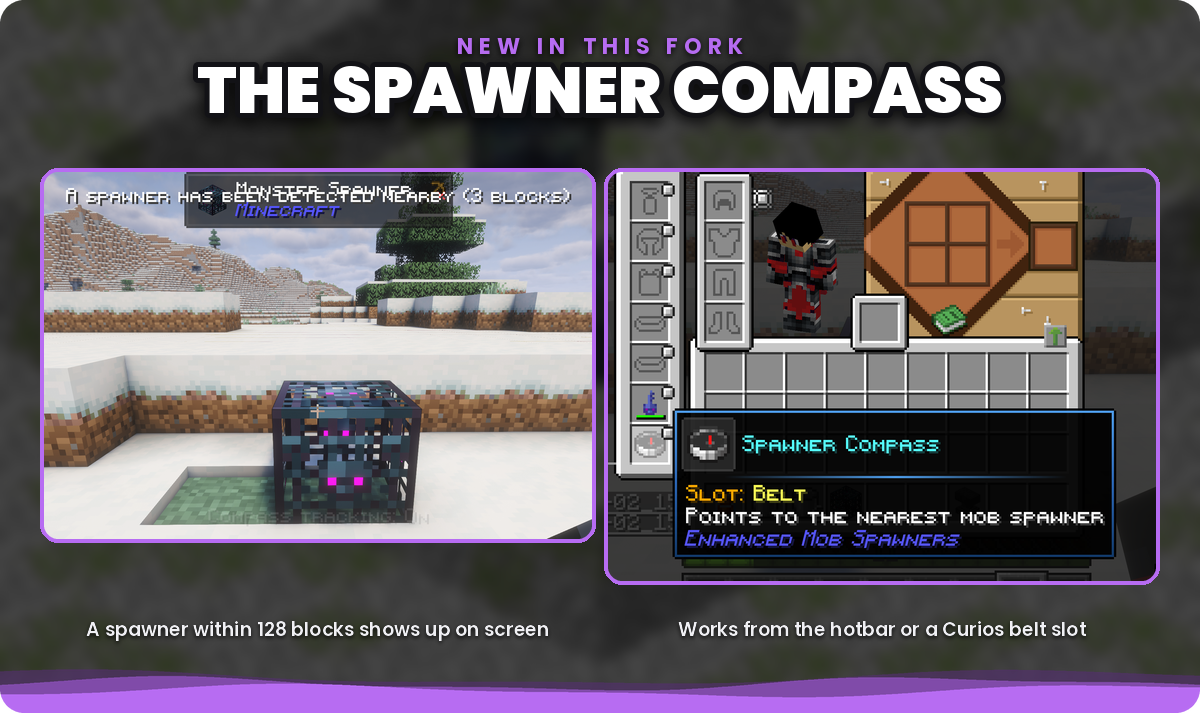
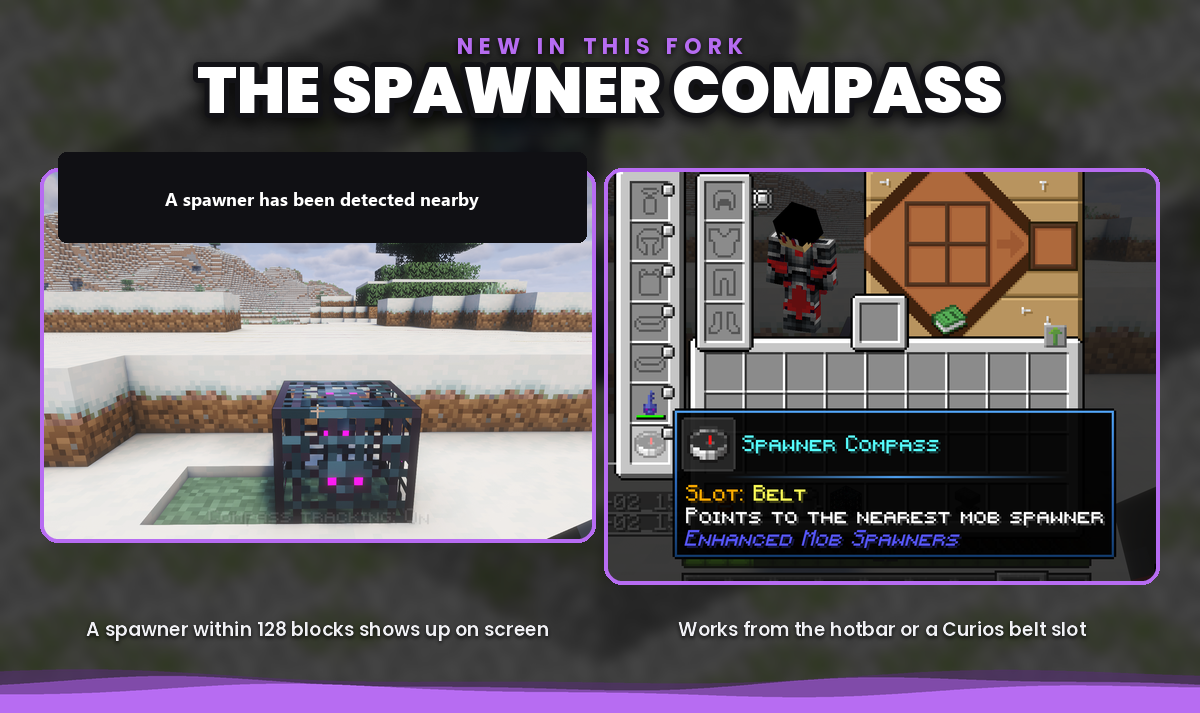
Update the CurseForge page for the compass tracker.
The compass card shows the detection line, and a new card shows the placement presets, the pixel offsets, and Jade moving the tracker aside.

diff --git a/curseforge/redesign/description.md b/curseforge/redesign/description.md
@@ -25,7 +25,7 @@ Released under CC0, the same license as [Branders' source](https://github.com/an
 - ✨ **Enchantable key:** The Spawner Key has 16 durability, each save costs 1, and it takes Mending and Unbreaking.
 - 🗡 **Spawn Harvest:** A treasure enchantment for swords, axes, bows, crossbows and knives. A kill with it always drops that mob's spawn egg. It is never offered in the enchanting table.
 - 🚫 **No random egg drops:** Branders' random egg drop chance is removed. Eggs from kills only come from Spawn Harvest.
-- 🧭 **Spawner Compass:** Shapeless recipe from a compass and a mob spawner. It points to the nearest tracked spawner within 128 blocks and shows the distance on screen.
+- 🧭 **Spawner Compass:** Shapeless recipe from a compass and a mob spawner. It points to the nearest tracked spawner within 128 blocks. Right-click, or the Toggle Spawner Compass control, turns tracking off or on whether the compass is in the hotbar or on a belt. Tracking off shows "A spawner has been detected nearby". Tracking on replaces that line with the compass icon and the distance under it. That readout starts at the top center. The mod config screen (Pause, Mods, Enhanced Mob Spawners) can move it to any corner or bottom center, or by a pixel offset. If Jade's tooltip covers it, the readout steps aside.
 - 📡 **Compass tracking:** A button on the Spawner Key screen hides a spawner from the compass. Spawners you haven't changed stay tracked.
 - 🎽 **Belt slots:** With Curios, the key and the compass can go in a belt slot. With Supplementaries too, missing belt slots are added so there are at least four.
 
@@ -36,6 +36,8 @@ Released under CC0, the same license as [Branders' source](https://github.com/an
 ![The Spawner Key config screen](https://raw.githubusercontent.com/Renzolc/enhanced-mob-spawners-neoforge/main/curseforge/redesign/media-0-spawner-config.png)
 
 ![The Spawner Compass detecting a spawner and in a belt slot](https://raw.githubusercontent.com/Renzolc/enhanced-mob-spawners-neoforge/main/curseforge/redesign/media-1-spawner-compass.png)
+
+![Place the compass tracker at the top, a corner, or the bottom](https://raw.githubusercontent.com/Renzolc/enhanced-mob-spawners-neoforge/main/curseforge/redesign/media-4-compass-tracker.png)
 
 ![The Spawn Harvest enchantment](https://raw.githubusercontent.com/Renzolc/enhanced-mob-spawners-neoforge/main/curseforge/redesign/media-2-spawn-harvest.png)
 
@@ -66,6 +68,8 @@ Settings are in `.minecraft/config/spawnermod.json`. On/off values use 1 for tru
 - `default_spawner_range_enabled`, `default_spawner_range` (52): a default player range for every spawner.
 - `spawner_hardness` (5): how hard spawners are to mine.
 - One entry per spawn egg to turn eggs off for specific mobs.
+- `compass_hud_anchor`: where the compass tracker sits. 0 is top center, then top left, top right, bottom left, bottom right, and bottom center. The same screen is Pause, Mods, Enhanced Mob Spawners, Config.
+- `compass_hud_offset_x`, `compass_hud_offset_y`: extra pixels from that spot. Positive X moves right and positive Y moves down.
 
 `monster_egg_drop_chance` is still in the file but has no effect in this fork, because eggs from kills only come from Spawn Harvest.
 
